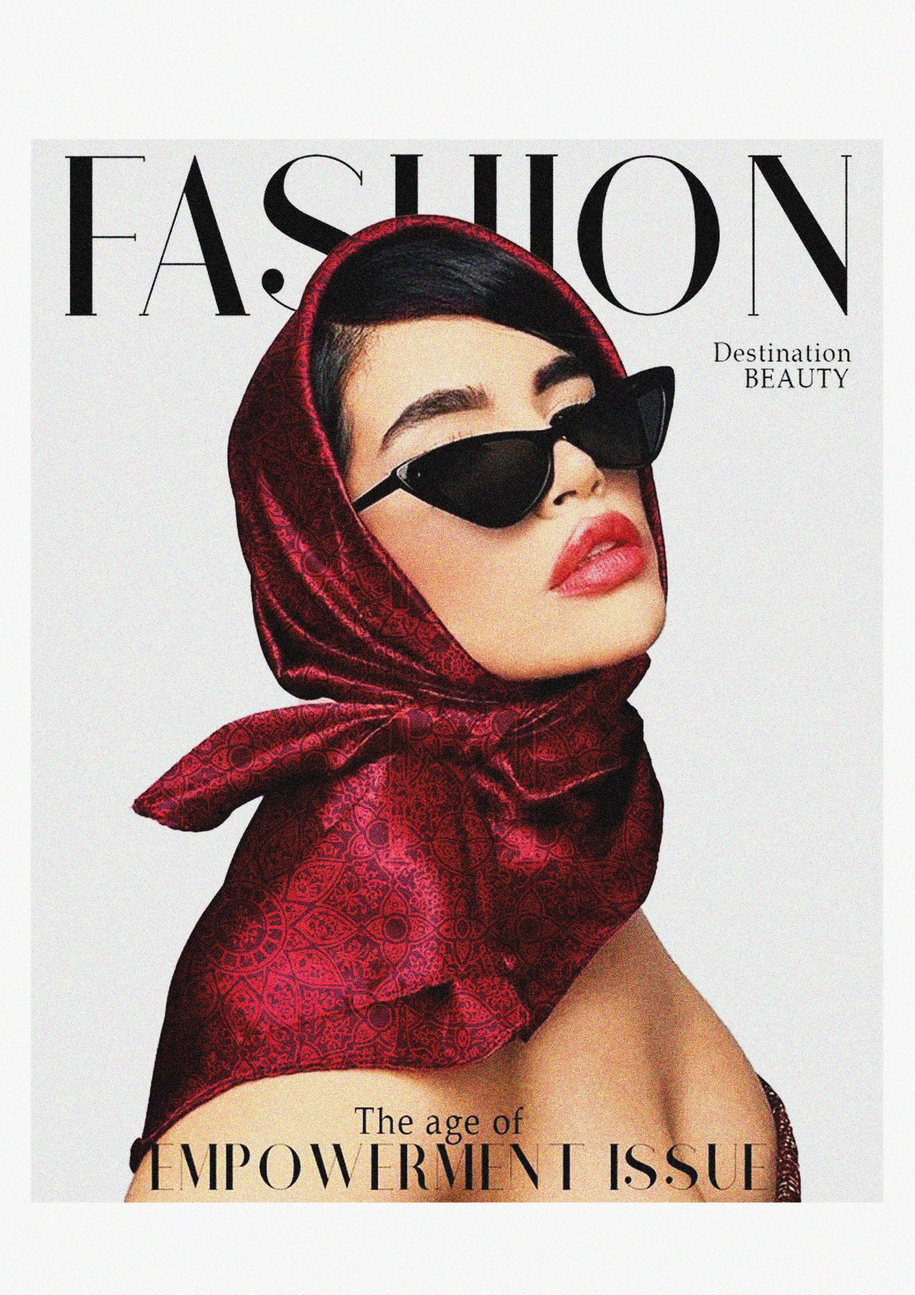
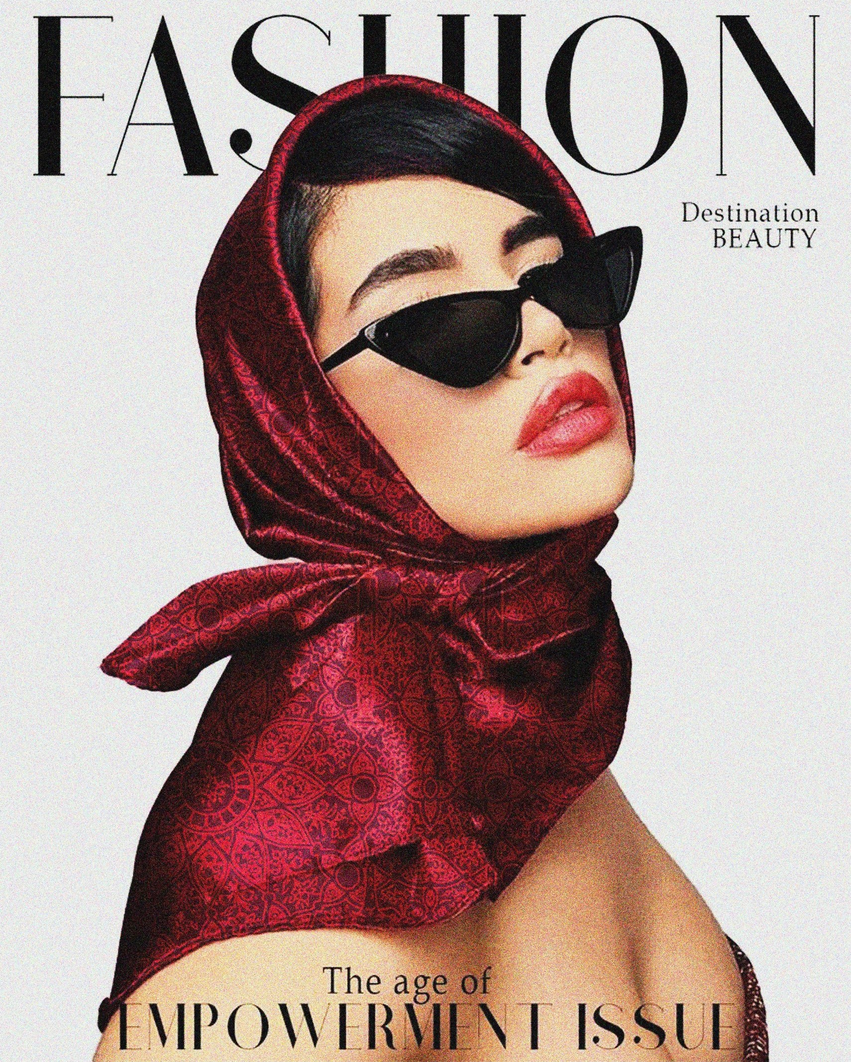
Editorial: crop white margins from the covers

diff --git a/data.js b/data.js
@@ -576,19 +576,19 @@ const PROJECTS = [
       unit: .8,
       items: [
         { src: "img/ed-vogue-margot.jpg", ar: 1.249, f: [0.5, 0.6, 2.6], c: "#e0529a", cap: "Deer-crest print, tone on tone in pink, on a sculpted dress." },
-        { src: "img/ed-schiap.jpg", ar: 1.376, f: [0.56, 0.76, 3], c: "#d9674f", cap: "Composition 02 deer print in coral, following the flare and folds of the skirt." },
+        { src: "img/ed-schiap.jpg", ar: 1.36, f: [0.566, 0.79, 3], c: "#d9674f", cap: "Composition 02 deer print in coral, following the flare and folds of the skirt." },
         { src: "img/ed-elle.jpg", ar: 1.303, f: [0.55, 0.7, 2.6], c: "#c2154a", cap: "Tonal oxblood repeat on a strapless ball gown." },
         { src: "img/ed-vogue-adele.jpg", ar: 1.25, f: [0.4, 0.72, 2.6], c: "#0a8f8a", cap: "Architectural print in teal on a structured gown." },
-        { src: "img/ed-red.jpg", ar: 1.0, f: [0.55, 0.62, 2.8], c: "#d95c8f", cap: "Colonnade print on a column gown." },
-        { src: "img/ed-vogue-adria.jpg", ar: 1.294, f: [0.42, 0.45, 2.4], c: "#5f8f99", cap: "Draped silk in a soft teal-and-rose colourway." },
-        { src: "img/ed-fashion.jpg", ar: 1.415, f: [0.3, 0.68, 2.4], c: "#ac2c3d", cap: "Headscarf rendered in a burgundy ornament repeat." },
-        { src: "img/ed-vogue-mexico.jpg", ar: 1.414, f: [0.47, 0.52, 2.6], c: "#1f3a6b", cap: "Portrait-and-floral repeat, tone on tone in navy, on a satin top and fitted skirt." },
-        { src: "img/ed-balenciaga.jpg", ar: 1.0, f: [0.52, 0.36, 3], c: "#1d6b70", cap: "Doorway crest in teal and red on a second-skin catsuit." },
-        { src: "img/ed-vogue-france.jpg", ar: 1.414, f: [0.44, 0.68, 3.4], c: "#d20b35", cap: "Lantern and archway print in tonal red on a draped skirt." },
-        { src: "img/ed-bazaar.jpg", ar: 1.414, f: [0.5, 0.4, 2.6], c: "#c2185b", cap: "Doorway crest in navy and magenta on a sculpted bubble dress." },
-        { src: "img/ed-marble.jpg", ar: 1.0, f: [0.52, 0.6, 2.6], c: "#5fae98", cap: "Greek Key print on a fitted gown." },
-        { src: "img/ed-gown.jpg", ar: 1.0, f: [0.5, 0.55, 2.4], c: "#7b2fb0", cap: "Hummingbird print on an evening coat." },
-        { src: "img/ed-group.jpg", ar: 1.0, f: [0.5, 0.6, 2.2], c: "#7a2436", cap: "Collection view: several repeats styled together as a runway line-up." }
+        { src: "img/ed-red.jpg", ar: 1.244, f: [0.591, 0.62, 2.8], c: "#d95c8f", cap: "Colonnade print on a column gown." },
+        { src: "img/ed-vogue-adria.jpg", ar: 1.255, f: [0.412, 0.444, 2.4], c: "#5f8f99", cap: "Draped silk in a soft teal-and-rose colourway." },
+        { src: "img/ed-fashion.jpg", ar: 1.247, f: [0.285, 0.697, 2.4], c: "#ac2c3d", cap: "Headscarf rendered in a burgundy ornament repeat." },
+        { src: "img/ed-vogue-mexico.jpg", ar: 1.251, f: [0.468, 0.524, 2.6], c: "#1f3a6b", cap: "Portrait-and-floral repeat, tone on tone in navy, on a satin top and fitted skirt." },
+        { src: "img/ed-balenciaga.jpg", ar: 1.393, f: [0.528, 0.36, 3], c: "#1d6b70", cap: "Doorway crest in teal and red on a second-skin catsuit." },
+        { src: "img/ed-vogue-france.jpg", ar: 1.251, f: [0.438, 0.712, 3.4], c: "#d20b35", cap: "Lantern and archway print in tonal red on a draped skirt." },
+        { src: "img/ed-bazaar.jpg", ar: 1.296, f: [0.5, 0.379, 2.6], c: "#c2185b", cap: "Doorway crest in navy and magenta on a sculpted bubble dress." },
+        { src: "img/ed-marble.jpg", ar: 1.34, f: [0.527, 0.6, 2.6], c: "#5fae98", cap: "Greek Key print on a fitted gown." },
+        { src: "img/ed-gown.jpg", ar: 1.601, f: [0.5, 0.55, 2.4], c: "#7b2fb0", cap: "Hummingbird print on an evening coat." },
+        { src: "img/ed-group.jpg", ar: 1.205, f: [0.5, 0.6, 2.2], c: "#7a2436", cap: "Collection view: several repeats styled together as a runway line-up." }
       ]
     },
     note: "These are speculative mockups made for study. Original photography, models and magazine mastheads belong to their respective publications and photographers; only the textile patterns are my work.",

diff --git a/index.html b/index.html
@@ -23,7 +23,7 @@
 <meta property="og:type" content="website">
 <meta name="twitter:card" content="summary_large_image">
 <meta name="twitter:image" content="https://mirzuhair.com/og-card3.jpg">
-<link rel="stylesheet" href="styles.css?v=202609221236">
+<link rel="stylesheet" href="styles.css?v=202609221245">
 </head>
 <body>
 <header class="site-header">
@@ -64,9 +64,9 @@
   <button class="lb-next" aria-label="Next">›</button>
 </div>
 
-<script src="data.js?v=202609221236"></script>
-<script src="cv.js?v=202609221236"></script>
-<script src="tours.js?v=202609221236"></script>
-<script src="app.js?v=202609221236"></script>
+<script src="data.js?v=202609221245"></script>
+<script src="cv.js?v=202609221245"></script>
+<script src="tours.js?v=202609221245"></script>
+<script src="app.js?v=202609221245"></script>
 </body>
 </html>
